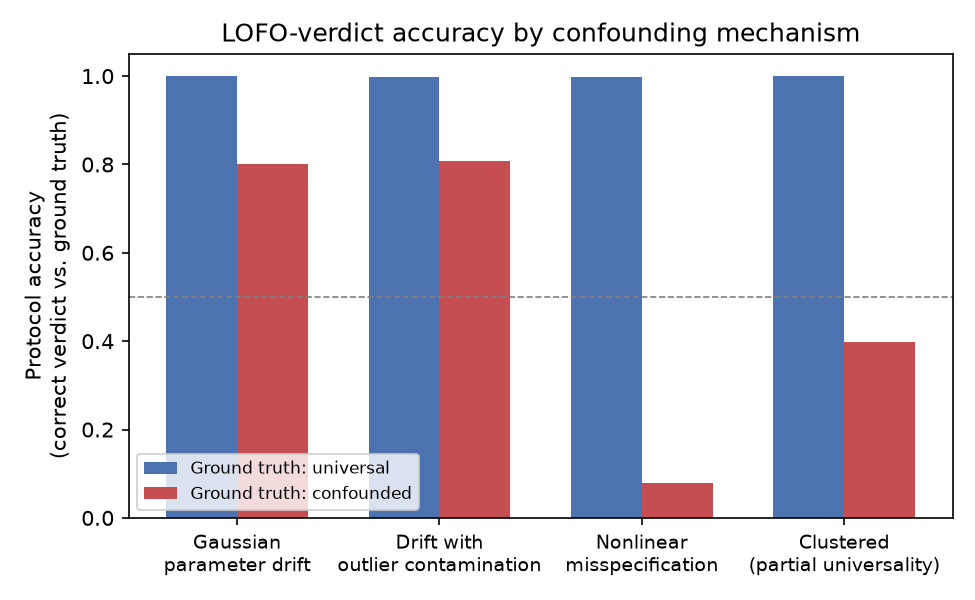
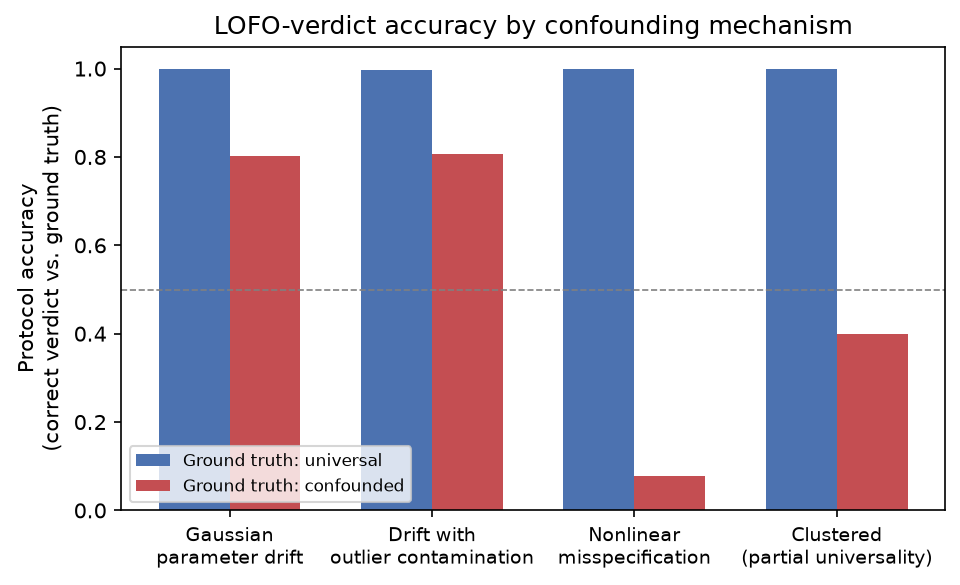
Fix Figure 2 title truncation, Figure 3 y-axis, pse2025 year, minor wording

diff --git a/manuscript.tex b/manuscript.tex
@@ -43,7 +43,7 @@
 
 A growing family of methods audits data-driven scientific discovery by asking not only ``does this model fit the data'' but ``does the discovered structure survive when an entire data source is withheld.'' The rationale is that a regression model fit across data pooled from multiple experimental facilities can achieve a high in-sample R\textsuperscript{2} purely by absorbing facility-specific offsets, without the fitted exponents or coefficients corresponding to anything transferable. Leave-one-group-out cross-validation, often paired with bootstrap resampling to obtain confidence intervals on the surviving structure, is a standard tool for detecting this failure mode \citep{kohavi1995,efron1979}.
 
-The first two manuscripts in this series \citep{gilruiz2026paper1,gilruiz2026paper2} apply this audit protocol to windage (aerodynamic friction) in rotor-stator disc cavities, a problem with a long history of facility-specific correlations that do not transfer well \citep{bayley1969,daily1960}. Using a 114-point dataset assembled from four independent facilities \citep{guo2024,vrancik1968,liu2024,zheng2024}, the second companion manuscript \citep{gilruiz2026paper2} finds that a four-predictor power law with a high in-sample fit collapses under leave-one-facility-out cross-validation (pooled LOFO R\textsuperscript{2} of $-0.885$), and only the Reynolds-number exponent survives bootstrap resampling across facilities. A subsequent exhaustive sweep of both classical statistical models and modern ML architectures --- hierarchical Bayesian regression with a physics-informed prior, Gaussian processes, LLM-guided symbolic regression over several candidate functional forms, a transformer-guided symbolic regression proxy, domain-adversarial neural networks, deep kernel Gaussian processes, model-agnostic meta-learning, among others --- was run on the same 114 points. None recovers a model that generalizes; several perform \emph{worse} than the simple linear baseline.
+The first two manuscripts in this series \citep{gilruiz2026paper1,gilruiz2026paper2} apply this audit protocol to windage (aerodynamic friction) in rotor-stator disc cavities, a problem with a long history of facility-specific correlations that do not transfer well \citep{bayley1969,daily1960}. Using a 114-point dataset assembled from four independent facilities \citep{guo2024,vrancik1968,liu2024,zheng2024}, the second companion manuscript \citep{gilruiz2026paper2} finds that a four-predictor power law with a high in-sample fit collapses under leave-one-facility-out cross-validation (pooled LOFO R\textsuperscript{2} of $-0.885$), and only the Reynolds-number exponent survives bootstrap resampling across facilities. A subsequent broad sweep of both classical statistical models and modern ML architectures --- hierarchical Bayesian regression with a physics-informed prior, Gaussian processes, LLM-guided symbolic regression over several candidate functional forms, a transformer-guided symbolic regression proxy, domain-adversarial neural networks, deep kernel Gaussian processes, model-agnostic meta-learning, among others --- was run on the same 114 points. None recovers a model that generalizes; several perform \emph{worse} than the simple linear baseline.
 
 That negative result is scientifically informative, but it leaves an important methodological question unanswered, and unanswerable from a single real dataset: with only four facilities and facility sizes as small as eight points, is the LOFO+bootstrap protocol itself trustworthy at that scale? A negative verdict is only informative if the protocol reliably distinguishes genuine non-generalization from noise-driven false negatives caused by having too little data. Answering this requires known ground truth, which only synthetic data can provide.
 
@@ -76,7 +76,7 @@ Each scenario simulates $K$ facilities, each contributing $n_k$ points of a log-
 \log C_p = \beta_0^{(k)} + a^{(k)} \log Re + b^{(k)} \log \Pi_g + \varepsilon,
 \qquad \varepsilon \sim \mathcal{N}(0,\sigma^2),
 \end{equation}
-matching the functional form of the winning model in the second companion manuscript \citep{gilruiz2026paper2}. $Re$ and $\Pi_g$ are drawn uniformly in log-space over ranges representative of the real dataset. Ground truth is declared, not inferred: each scenario is generated as either \emph{universal} (identical $\beta_0^{(k)}, a^{(k)}, b^{(k)}$ across all $K$ facilities) or \emph{confounded}, under one of four mechanisms:
+matching the functional form of the winning model in the second companion manuscript \citep{gilruiz2026paper2}. $Re$ and $\Pi_g$ are drawn uniformly in log-space over ranges representative of the real dataset. Ground truth is declared, not inferred: each scenario is generated as either \emph{universal} (identical $\beta_0^{(k)}, a^{(k)}, b^{(k)}$ across all $K$ facilities, so the fitted log-linear model is correctly specified) or \emph{confounded} (the fitted log-linear model is not the true generating process, whether because its linear coefficients genuinely differ by facility or, under nonlinear misspecification specifically, because an unmodeled term does), under one of four mechanisms:
 
 \begin{description}
   \item[Gaussian parameter drift] $(\beta_0^{(k)}, a^{(k)}, b^{(k)})$ drawn independently per facility from a Normal distribution centered on the true values, spread controlled by heterogeneity $h \in [0,3]$.
